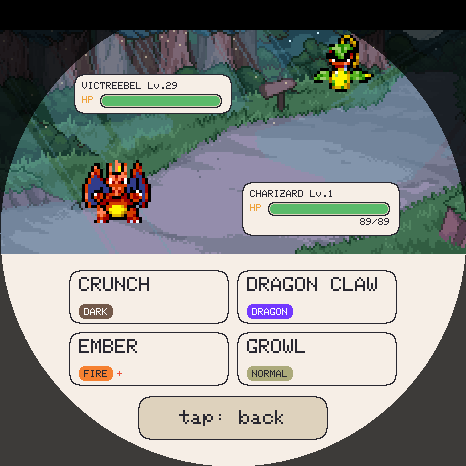
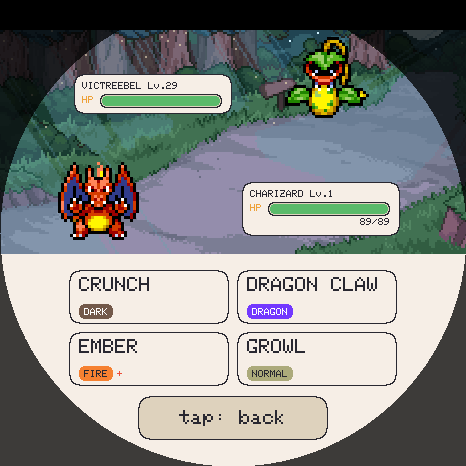
Detect whether the board can acknowledge a restore, instead of assuming
Fixes a regression I introduced in v3.22 and justified with a claim I had
not checked. Removing the pause(125) fallback from the restore path, I wrote
"every firmware that has ever had IMPORT answers IMPORT MORE". It does not:
IMPORT arrived in 2e835611, the acknowledgement only in e7fc43c5, first
shipped in v3.15. So v2.5, v3.3 and v3.4 accept a restore and never reply --
and the page now waited 8 s per chunk and failed, for exactly the person who
most needs to get a save off an old board.

The fallback is not simply restored: a blind delay is a guess about how long
a board takes, too short drops a chunk, and the only thing that notices is
the checksum after the whole upload. It probes the FIRST chunk instead. An
acknowledgement means require one for every chunk after it; silence means say
so and pace the rest. Silence LATER is still a failure, not a fallback. The
timeout is paid once rather than per chunk.

The protocol moved into savefile.js and takes its I/O as arguments, the same
arrangement link.cpp uses for its transport and for the same reason: a test
can drive it without a board. Six cases now cover it -- modern firmware,
pre-v3.15 firmware, a board that goes quiet mid-upload, a named error, a
refused commit, and a bad command list. Negative-checked by putting the
regression back, which is also how I found that the test ABORTED with a stack
trace instead of reporting, hiding every case after it. It reports now.
[…]

Changed region(s): [[0.1202, 0.3305, 0.3305, 0.5408], [0.6009, 0.0601, 0.8112, 0.2704]]

diff --git a/web/savefile.js b/web/savefile.js
@@ -158,6 +158,59 @@ export function describeBackup(blob) {
   return out;
 }
 
+// How long to wait between chunks when the board cannot acknowledge them.
+export const UNACKED_CHUNK_PACE_MS = 125;
+
+// Uploads the chunks of an already-verified backup and commits it.
+//
+// It takes its I/O as arguments rather than reaching for the module-level serial
+// port, which is the arrangement link.cpp uses for its transport and for exactly
+// the same reason: a test can then drive the protocol without a board or a
+// browser. `io` needs { writeLine, waitForAny, pause } and may provide
+// { resetQueue, log }.
+//
+// The acknowledgement is DETECTED, not assumed. `IMPORT` arrived in 2e835611 but
+// the `IMPORT MORE` reply only in e7fc43c5, first shipped in v3.15 -- so v2.5,
+// v3.3 and v3.4 accept a restore and never answer, and a player on one of those
+// is exactly who most needs to get their save off. An earlier version of this
+// waited unconditionally and broke them; the one before that always guessed at a
+// delay, which drops chunks on a slow board and is only caught by the checksum
+// after the entire upload. Probing the first chunk pays the timeout once and is
+// right either way.
+export async function sendBackup(commands, io) {
+  if (!Array.isArray(commands) || commands.length < 2 || commands.at(-1) !== 'IMPORT') {
+    throw new Error('sendBackup needs the command list from verifyBackup()');
+  }
+  const errors = ['IMPORT ODD', 'IMPORT BAD', 'IMPORT FULL'];
+  let acknowledges = true;
+  let first = true;
+  for (const command of commands.slice(0, -1)) {
+    await io.writeLine(command);
+    if (!acknowledges) {
+      await io.pause(UNACKED_CHUNK_PACE_MS);
+      continue;
+    }
+    const reply = await io.waitForAny(['IMPORT MORE', ...errors], first ? 4000 : 8000);
+    if (reply && reply !== 'IMPORT MORE') throw new Error(reply);
+    if (!reply) {
+      // Silence after the FIRST chunk means this firmware cannot acknowledge.
+      // Silence later means it stopped, which is a failure.
+      if (!first) throw new Error('the board stopped acknowledging save data');
+      acknowledges = false;
+      io.log?.('This firmware does not acknowledge save chunks (pre-v3.15), so the upload '
+               + 'is paced instead. The checksum is still verified before anything is replaced.');
+      await io.pause(UNACKED_CHUNK_PACE_MS);
+    }
+    first = false;
+  }
+  // A late reply to the probe above must not be read as the commit's answer.
+  io.resetQueue?.();
+  await io.writeLine('IMPORT');
+  const result = await io.waitForAny(['IMPORT OK', 'IMPORT REJECTED', 'IMPORT EMPTY'], 15000);
+  if (result !== 'IMPORT OK') throw new Error(result || 'the board did not answer');
+  return { acknowledged: acknowledges };
+}
+
 function trimText(bytes) {
   let text = '';
   for (const b of bytes) {

diff --git a/web/installer.js b/web/installer.js
@@ -1,4 +1,4 @@
-import { verifyBackup, describeBackup } from './savefile.js?v=34fb1e2d93f3ccf7';
+import { verifyBackup, describeBackup, sendBackup } from './savefile.js?v=1e0c9406aa8d98ea';
 
 const byId = (id) => document.getElementById(id);
 const enc = new TextEncoder();
@@ -919,20 +919,16 @@ async function restoreText(text, label) {
   setBusy(true);
   try {
     readQueue = [];
-    for (const command of commands.slice(0, -1)) {
-      await writeLine(command);
-      // ALWAYS wait for the acknowledgement, never a fixed delay. This used to
-      // fall back to pause(125) on firmware that predates the pack protocol,
-      // which is a guess about how long a board takes: too short and chunks are
-      // dropped, and the only thing that noticed was the checksum at the end,
-      // after the whole upload. Every firmware that has ever had IMPORT answers
-      // IMPORT MORE, so there is nothing to fall back for.
-      const reply = await waitForAny(['IMPORT MORE', 'IMPORT ODD', 'IMPORT BAD', 'IMPORT FULL'], 8000);
-      if (reply !== 'IMPORT MORE') throw new Error(reply || 'the board stopped acknowledging save data');
-    }
-    await writeLine('IMPORT');
-    const result = await waitForAny(['IMPORT OK', 'IMPORT REJECTED', 'IMPORT EMPTY'], 15000);
-    if (result !== 'IMPORT OK') throw new Error(result || 'the board did not answer');
+    // The protocol lives in savefile.js so it can be tested without a board; this
+    // only supplies the I/O. See sendBackup() for why the acknowledgement is
+    // detected rather than assumed.
+    await sendBackup(commands, {
+      writeLine,
+      waitForAny,
+      pause,
+      log,
+      resetQueue: () => { readQueue = []; },
+    });
     log('Save validated and restored. The board is restarting.');
     // A restart drops the USB device, so the port is gone whether we tidy up or
     // not -- releasing it properly means reconnecting works without a reload.

diff --git a/web/index.html b/web/index.html
@@ -217,6 +217,6 @@
 
   <script type="module" src="https://unpkg.com/esp-web-tools@10/dist/web/install-button.js"></script>
   <script src="https://unpkg.com/lucide@0.468.0/dist/umd/lucide.min.js" defer></script>
-  <script type="module" src="installer.js?v=9cc61ff8c9c453c1"></script>
+  <script type="module" src="installer.js?v=e869ec891e88dad8"></script>
 </body>
 </html>

diff --git a/tools/emu/host_impl.cpp b/tools/emu/host_impl.cpp
@@ -38,16 +38,34 @@ static uint8_t *slurp(const std::string &path, uint32_t *size) {
   return b;
 }
 
+// Two bugs lived in the first four lines of this, and both were INVISIBLE:
+//
+// 1. The path went into `char p[64]`. g_spriteDir is an ABSOLUTE path baked in at
+//    compile time, so on a normal checkout the result is ~69 characters --
+//    snprintf truncated it, fopen failed, and every sprite silently did not load.
+//    The only symptom was creatures drawn as bare dex numbers, which looks
+//    exactly like "no sprites installed". It is a std::string now, the same as
+//    SdThumbs::load() below, so there is no length to get wrong.
+//
+// 2. `dexNum > 999` -- a literal that did not grow with the dex. DEX_COUNT is
+//    1025, so the last 26 species could never load however long the buffer was.
+//    CLAUDE.md § "uint8_t with a dex of 386" is a list of exactly this, and this
+//    is the same mistake wearing a different width.
+//
+// sprite_test catches both, and could not run at all until unpack_bundle.py
+// existed -- so a test written to catch a sprite-truncation bug was skipped on
+// every machine while a sprite-truncation bug sat two lines away from it.
 bool PmdMon::load(int16_t dexNum, bool shiny) {
-  if (dexNum < 1 || dexNum > 999) return false;
+  if (dexNum < 1 || dexNum > DEX_COUNT) return false;
   unload();
-  char p[64];
-  snprintf(p, sizeof(p), "%s/p%s%03u.bin", g_spriteDir.c_str(), shiny ? "s" : "", (unsigned)dexNum);
+  char name[24];
+  snprintf(name, sizeof(name), "/p%s%03u.bin", shiny ? "s" : "", (unsigned)dexNum);
   uint32_t size = 0;
-  blob = slurp(p, &size);
-  if (!blob) {
-    snprintf(p, sizeof(p), "%s/p%03u.bin", g_spriteDir.c_str(), (unsigned)dexNum);
-    blob = slurp(p, &size);
+  blob = slurp(g_spriteDir + name, &size);
+  if (!blob && shiny) {
+    // No shiny variant packed: fall back to the normal one, as the firmware does.
+    snprintf(name, sizeof(name), "/p%03u.bin", (unsigned)dexNum);
+    blob = slurp(g_spriteDir + name, &size);
   }
   if (!blob) return false;
   if (size < 7 || memcmp(blob, "TPK2", 4) != 0) { unload(); return false; }
